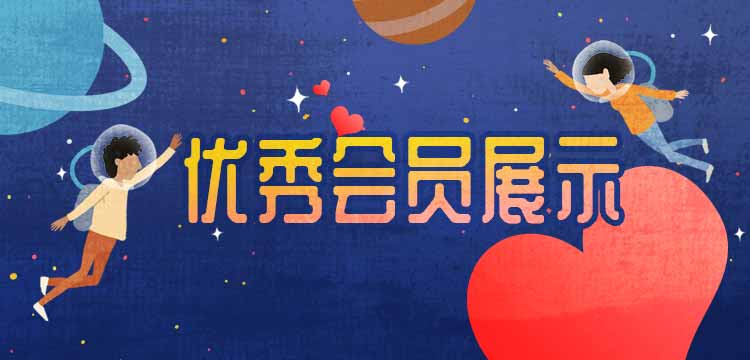
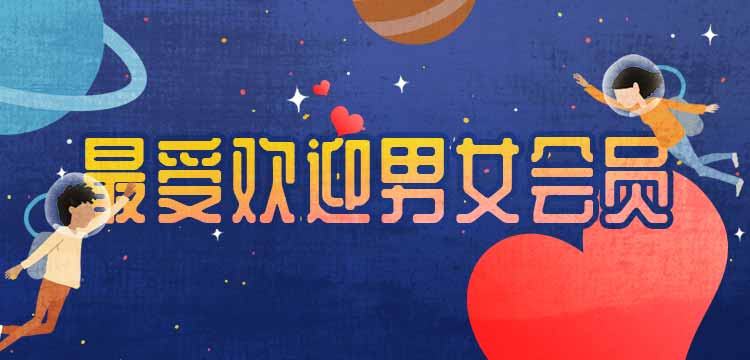
pop

Changed region(s): [[0.0, 0.0917, 1.0, 0.9778]]

diff --git a/views/html/history.html b/views/html/history.html
@@ -5,8 +5,8 @@
 	</header>
 
 	<ul class="history-list">
-		<li><a href="https://mp.weixin.qq.com/s/lf0LG-gVXBf_FmBsdqbMNQ">[9.9]9月9日邀请单身的你“相约久久”</a></li>
-		<li><a href="https://mp.weixin.qq.com/s/7OhxokziiMlyASa8NncMYw">[8.17]七夕海信交友活动回放</a></li>
-		<li><a href="https://mp.weixin.qq.com/s/Yi7WCyh70BF_HVig4h0nUg">[8.8]恰同学少年！姻为有你，缘聚长兴！</a></li>
+		<li><a href="https://mp.weixin.qq.com/s/lf0LG-gVXBf_FmBsdqbMNQ"><img src="/img/hd_1.jpg"/><label>[9.9]9月9日邀请单身的你“相约久久”</label></a></li>
+		<li><a href="https://mp.weixin.qq.com/s/7OhxokziiMlyASa8NncMYw"><img src="/img/hd_2.jpg"/><label>[8.17]七夕海信交友活动回放</label></a></li>
+		<li><a href="https://mp.weixin.qq.com/s/Yi7WCyh70BF_HVig4h0nUg"><img src="/img/hd_3.jpg"/><label>[8.8]恰同学少年！姻为有你，缘聚长兴！</label></a></li>
 	</ul>
 </div>

diff --git a/public/js/list.js b/public/js/list.js
@@ -29,7 +29,7 @@ jQuery(function(){
 			banner:[
 				// {link_url:'',url:'/img/通栏.jpg',title:'姻为有你，缘聚长兴'},
 				 {link_url:'',url:'/img/banner_dz.jpg',title:'标心配对成功可尽早参加线下活动'},
-				 {link_url:'/#pop',url:'/img/banner_3.jpg',title:'优秀会员展示'},
+				 {link_url:'/#pop',url:'/img/banner_3.jpg',title:'最受欢迎男女会员'},
 				 {link_url:'/#history',url:'/img/banner_4.jpg',title:'往期活动'},
 			],
 			orderArr:[

diff --git a/public/css/main.css b/public/css/main.css
@@ -113,5 +113,7 @@ li{list-style:none;}
 
 
 .history-list{padding-top:.5rem;}
-.history-list li{line-height:.3rem;margin:.1rem;}
-.history-list li a{color:#FA0;}
+.history-list li{line-height:.3rem;margin:.1rem;position:relative;border-radius:.05rem;overflow:hidden;}
+.history-list li a{color:#FFF;}
+.history-list li img{width:100%;}
+.history-list li label{position:absolute;background:rgba(0,0,0,0.3);bottom:0;width:100%;height:.45rem;line-height:.45rem;left:0;text-indent:.1rem;}
